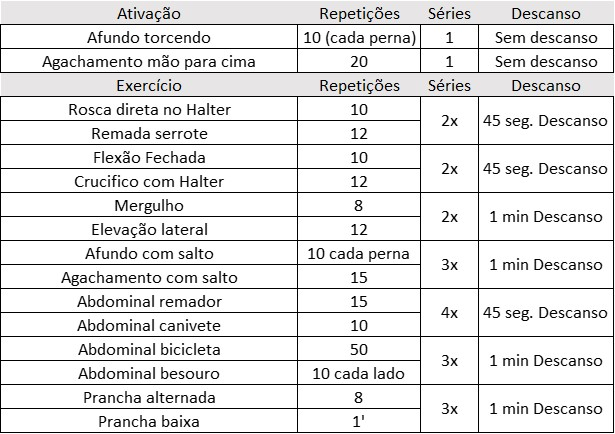
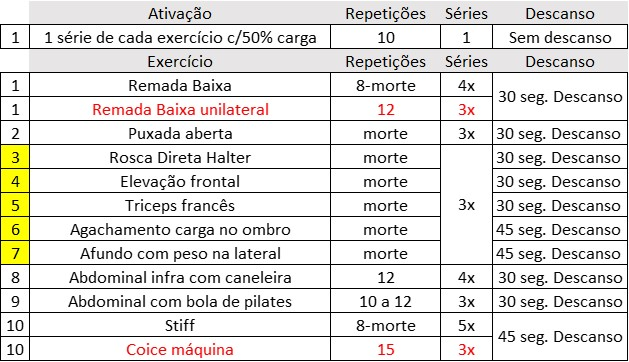
dani

diff --git a/docs/atletas/4117.html b/docs/atletas/4117.html
@@ -36,14 +36,14 @@
             <div class="segundapagina espaco">   
                
                 <img class="cara" src="../galeria/daniestat.jpg">
-                <p>Treino: Academia e casa
+                <p>Treino: Academia 
             </br>
-           Frequência: No mínimo 4x por semana na academia.
+           Frequência: No mínimo 6x por semana na academia.
         </br>
         Objetivo: Melhoria do tônus muscular para o pole dance, ênfase em hipertrofia.
         </br>
         Característica: Os treinos terão características diversas, focados ao objetivo já mencionado e à rotina. Na semana é obrigatório
-        realizar pelo menos 4x. Sendo treino A e B, depois uma mistura, dando origem ao treino 1, 2 e 3.
+        realizar pelo menos 6x. Sendo treino A, B e C. Lembrar de aumentar bastante a carga a ser puxada.
             </p>
             </div>
         </section>
@@ -63,15 +63,16 @@
             <header class="depoimento_conteudo bloco_cabecalho_degrade">Treino A </a></header>
             <div class="segundapagina espaco">   
                 <img class="shoot" src="../galeria/daniestata.jpg">
-                <p>O treino A é um treino mais longo, com ênfase no corpo todo. Atenção na execução do movimento, principalmente 
+                <p>O treino A é um pouco mais curto quando comparado com o B, por estar dividido em diversas partes do corpo, atenção às paticularidades de 
+                    cada exercício, podendo variar o número de séries e repetições. Atenção na execução do movimento, principalmente 
                     em momentos em que o músculo está quase fadigando. Execução sempre em extensão e flexão total, sem "roubar" parando
                      na metade do caminho. E tudo bem se não chegar no número de repetições estipuladas, fadigando o músculo é o que importa.    
             </p>
-            <div class="galeria">
+            <!-- <div class="galeria">
                 <iframe width="314" height="225" src="https://www.youtube.com/embed/4TZ9UtE5SPk"frameborder="0"
                     allow="accelerometer; autoplay; encrypted-media; gyroscope; picture-in-picture"
                     allowfullscreen></iframe>
-            </div>
+            </div> -->
             </div>
         </section>
 
@@ -83,32 +84,31 @@
                     em momentos em que o músculo está quase fadigando. Execução sempre em extensão e flexão total, sem "roubar" parando
                      na metade do caminho. E tudo bem se não chegar no número de repetições estipuladas, fadigando o músculo é o que importa.
                 </p>
-            <div class="galeria">
+            <!-- <div class="galeria">
                 <iframe width="314" height="225" src="https://www.youtube.com/embed/1-zqCOC2o7U"frameborder="0"
                     allow="accelerometer; autoplay; encrypted-media; gyroscope; picture-in-picture"
                     allowfullscreen></iframe>
-            </div>
+            </div> -->
             </div>
         </section>
 
-        <!-- <section class="materias">
+        <section class="materias">
             <header class="depoimento_conteudo bloco_cabecalho_degrade">Treino C </a></header>
             <div class="segundapagina espaco">   
                 <img class="shoot" src="../galeria/daniestatc.jpg">
-                <p>O treino C possui particularidades diferentes dos outros treinos. Note que os exercícios serão sempre feitos
-                     em pares, ou seja, só descansará depois de realizar as repetições estipuladas pelos dois exercícios.
-                      Utilizar uma velicidade maior na execução dos exercícios com amplitude maior também. Atenção que no treiino C
-                      não há treino de flexibilidade, respeital tal pausa para evitarmos possíveis lesões.
-                  
-                     
+                <p>O treino C possui particularidades diferentes dos outros treinos. Note que a amioria dos exercícios serão executados com halter.
+                    Note que os exercícios 3, 4, 5, 6 e 7 possuem uma regra específica, todos são 3 séries, porém a cada série você irá até a falha e, na próxia série, reduzir 
+                    a carga do halter. 
+                      Utilizar uma velocidade menor na execução dos exercícios com amplitude maior também. Atenção que no treino C
+                      não há treino de flexibilidade, a ativação é sempre uma execução a mais com metade do peso.   
             </p>
-            <div class="galeria">
+            <!-- <div class="galeria">
                 <iframe width="314" height="225" src="https://www.youtube.com/embed/mrOF5IAwiwY"frameborder="0"
                     allow="accelerometer; autoplay; encrypted-media; gyroscope; picture-in-picture"
                     allowfullscreen></iframe>
+            </div> -->
             </div>
-            </div>
-        </section> -->
+        </section>
         
         <section class="contato bloco ">
             <header class="contato_cabecalho bloco_cabecalho_degrade">Feedback</header>
